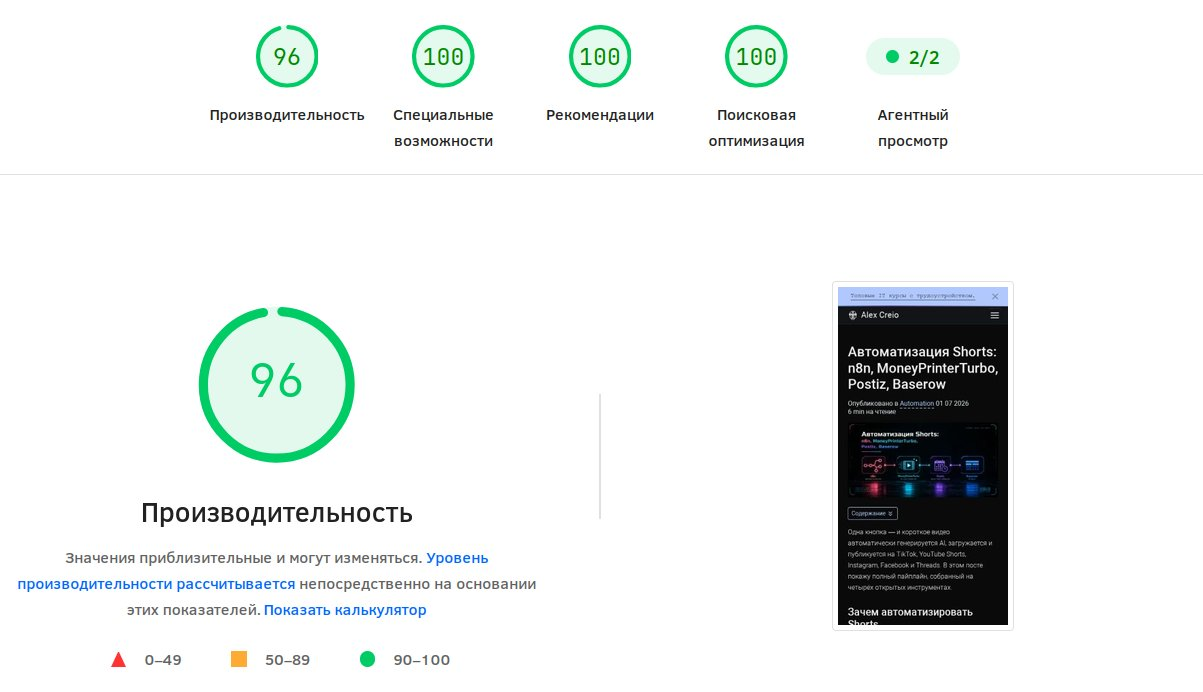
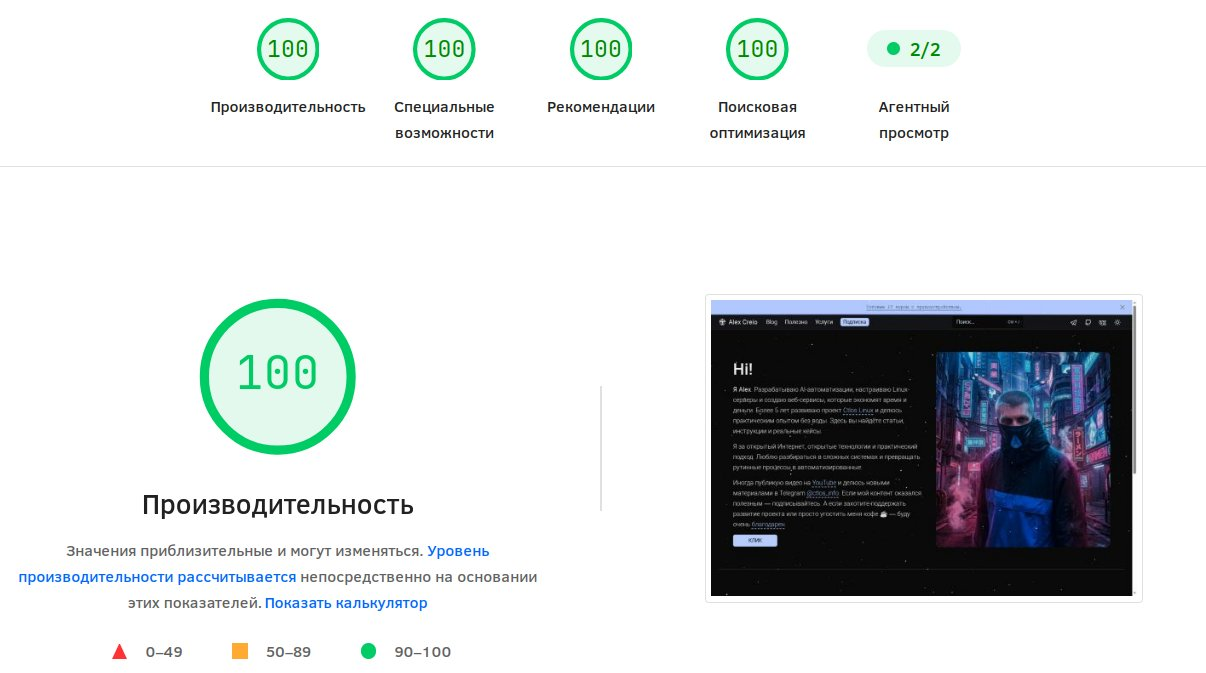
06.07.2026 Update

diff --git a/layouts/partials/head/stylesheet.html b/layouts/partials/head/stylesheet.html
@@ -1,13 +1,17 @@
 {{ if eq (hugo.Environment) "development" -}}
   {{ $options := (dict "targetPath" "main.css" "enableSourceMap" true "includePaths" (slice "node_modules")) -}}
   {{ $css := resources.Get "scss/app.scss" | toCSS $options -}}
-  <link rel="stylesheet" href="{{ $css.Permalink | relURL }}">
+  {{- $options := (dict "targetPath" "main.css" "enableSourceMap" true "includePaths" (slice "node_modules")) -}}
+  {{- $css := resources.Get "scss/app.scss" | toCSS $options -}}
+  <link rel="preload" href="{{ $css.RelPermalink }}" as="style">
+  <link rel="stylesheet" href="{{ $css.RelPermalink }}">
   {{/*<style>{{ $css.Content | safeCSS }}</style>*/}}
 {{ else -}}
   {{ $options := (dict "targetPath" "main.css" "outputStyle" "compressed" "includePaths" (slice "node_modules")) -}}
   {{ $css := resources.Get "scss/app.scss" | toCSS $options | postCSS (dict "config" "config/postcss.config.js") -}}
   {{ $secureCSS := $css | resources.Fingerprint "sha512" -}}
-  <link rel="stylesheet" href="{{ $secureCSS.Permalink }}" integrity="{{ $secureCSS.Data.Integrity }}" crossorigin="anonymous">
+  <link rel="preload" href="{{ $secureCSS.RelPermalink }}" as="style" integrity="{{ $secureCSS.Data.Integrity }}" crossorigin="anonymous">
+  <link rel="stylesheet" href="{{ $secureCSS.RelPermalink }}" integrity="{{ $secureCSS.Data.Integrity }}" crossorigin="anonymous">
   {{/*<style>{{ $secureCSS.Content | safeCSS }}</style>*/}}
 {{ end -}}
 <noscript><style>img.lazyload { display: none; }</style></noscript>